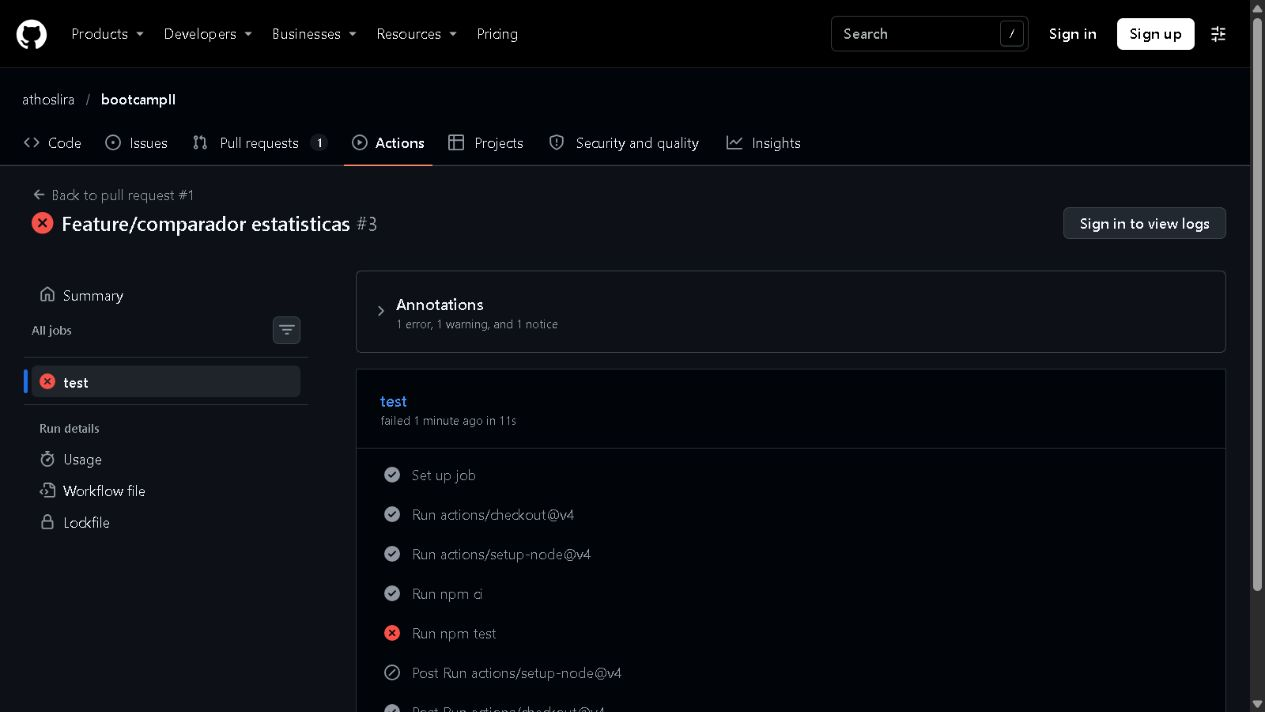
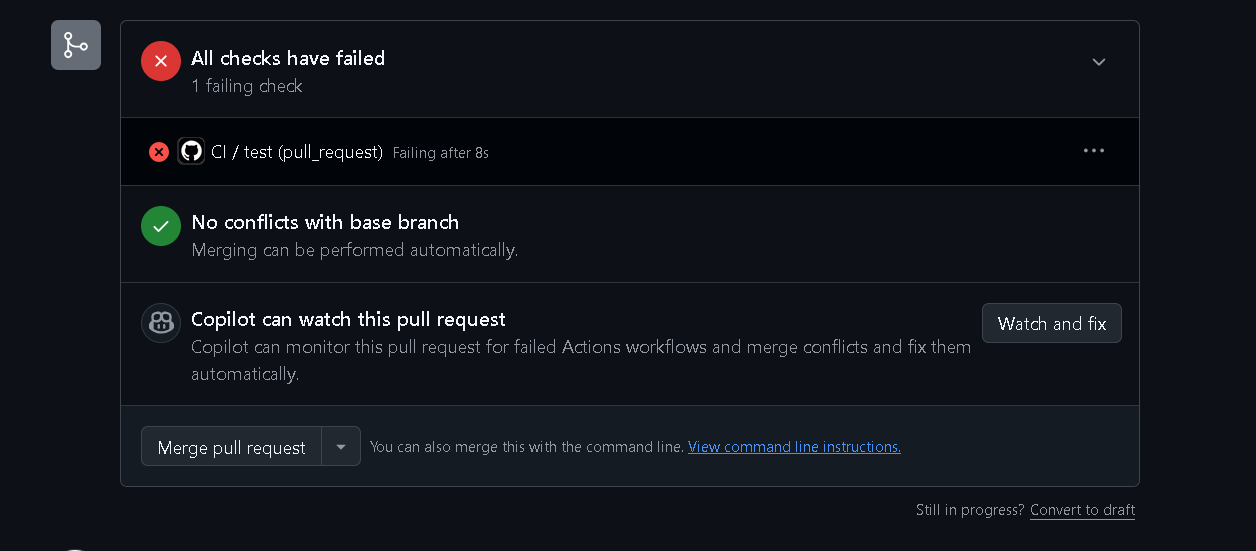
Corrige teste e completa evidencia do CI

diff --git a/tests/comparison.test.js b/tests/comparison.test.js
@@ -45,7 +45,7 @@ test('removePlayerFromComparison limpa somente o slot solicitado sem mutar a ent
 });
 
 test('comparisonLeader identifica os dois líderes, empate e zero válido', () => {
-  assert.equal(comparisonLeader({ ppg: 20 }, { ppg: 10 }, 'ppg'), 'right');
+  assert.equal(comparisonLeader({ ppg: 20 }, { ppg: 10 }, 'ppg'), 'left');
   assert.equal(comparisonLeader({ ppg: 10 }, { ppg: 20 }, 'ppg'), 'right');
   assert.equal(comparisonLeader({ ppg: 10 }, { ppg: 10 }, 'ppg'), 'tie');
   assert.equal(comparisonLeader({ ppg: 0 }, { ppg: 0 }, 'ppg'), 'tie');

diff --git a/README.md b/README.md
@@ -79,7 +79,13 @@ Os testes cobrem perfis e favoritos, interpretação do CSV, normalização de n
 
 O [workflow CI](.github/workflows/ci.yml) executa em pushes para `main` e pull requests destinados a `main`. O job `test` usa Ubuntu, Node.js 20, cache npm, `npm ci` e `npm test`, com permissão somente de leitura do conteúdo do repositório.
 
-Evidência da demonstração de bloqueio por falha no CI: [etapa-03-ci-bloqueado.png](evidencias/etapa-03-ci-bloqueado.png).
+Captura autenticada da área de merge da [PR #1](https://github.com/athoslira/bootcampII/pull/1) durante a falha controlada: o check `CI / test (pull_request)` está vermelho e o botão `Merge pull request` está desativado.
+
+![Check de CI falho e botão de merge desativado na PR](evidencias/etapa-03-ci-bloqueado.png)
+
+Detalhe da primeira execução com falha controlada em Actions: o job `test` e a etapa `Run npm test` falharam. Esta captura complementa a área de merge mostrada acima.
+
+![Job test e etapa npm test falhos em Actions](evidencias/etapa-03-ci-falha-actions.png)
 
 ## Docker: etapa 03
 
